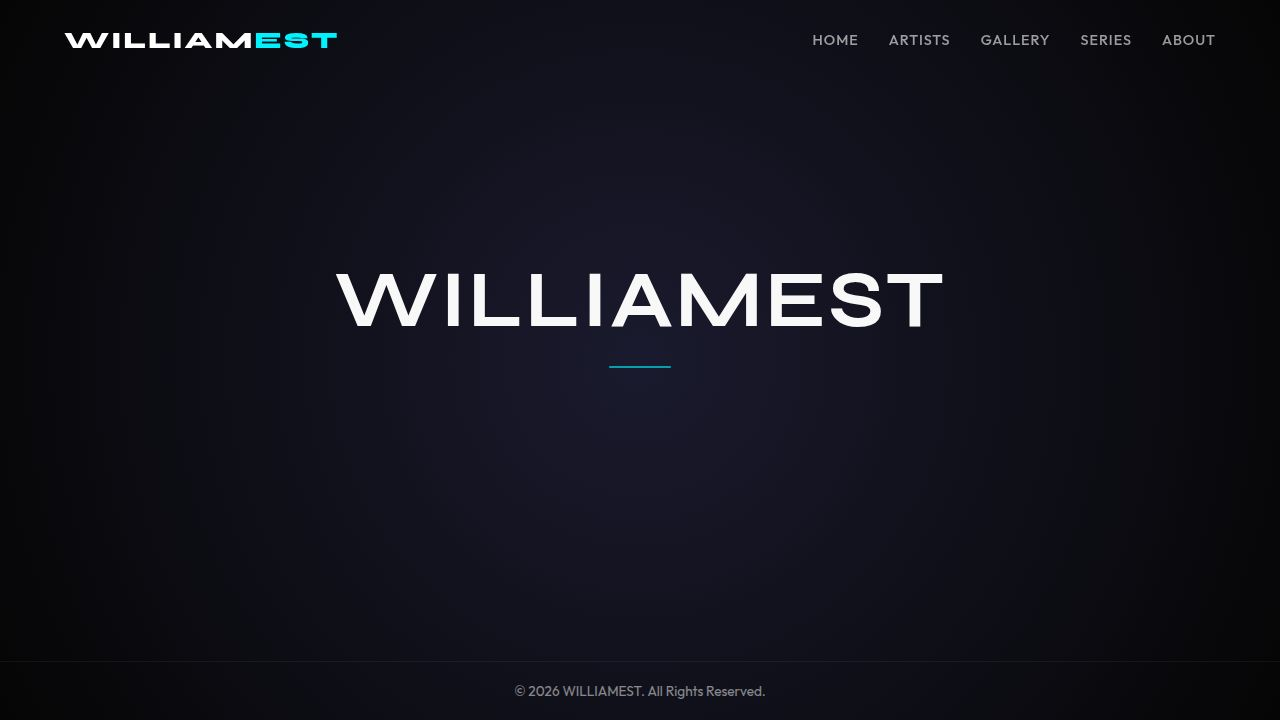
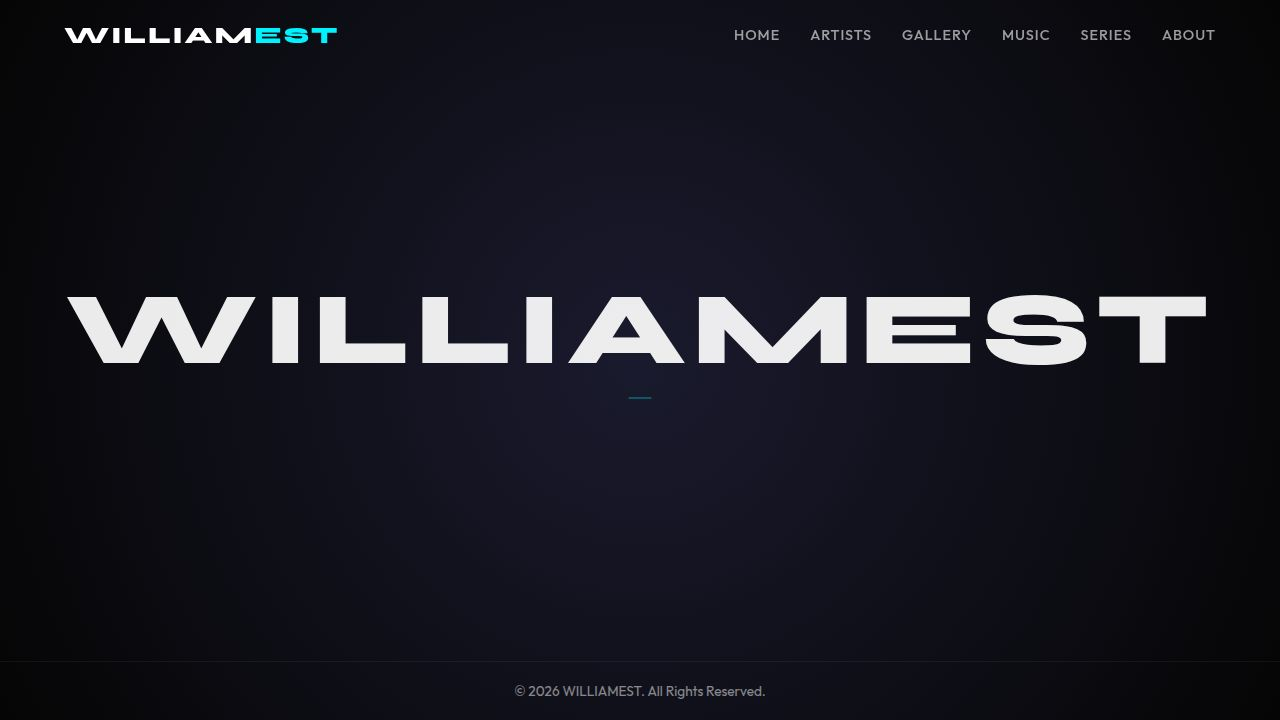
Add interactive photo viewer with navigation to series pages
Introduces a Lightbox component for viewing images with navigation controls, and updates series pages to utilize this component, replacing GSAP animations with direct image rendering and click interactions.

Replit-Commit-Author: Agent
Replit-Commit-Session-Id: fefd703e-1f18-45a1-940b-a8eb5c8bb643
Replit-Commit-Checkpoint-Type: full_checkpoint
Replit-Commit-Event-Id: 15db53f1-5986-473b-a2bf-03069cca0c66
Replit-Commit-Screenshot-Url: https://storage.googleapis.com/screenshot-production-us-central1/c8b2e662-a27f-438e-82d4-a696277a2b26/fefd703e-1f18-45a1-940b-a8eb5c8bb643/LmFUswW
Replit-Helium-Checkpoint-Created: true

diff --git a/artifacts/williamest/src/pages/Series3.tsx b/artifacts/williamest/src/pages/Series3.tsx
@@ -1,20 +1,26 @@
-import { useEffect } from "react";
+import { useEffect, useState, useCallback } from "react";
 import Navbar from "../components/Navbar";
 import Footer from "../components/Footer";
+import Lightbox from "../components/Lightbox";
+
+const archiveImages = [
+  "/images/youmaniac1.jpg",
+  "/images/youmaniac2.jpg",
+  "/images/youmaniac3.jpg",
+  "/images/youmaniac4.jpg",
+  "/images/youmaniac5.jpg",
+];
 
 export default function Series3() {
+  const [lbIndex, setLbIndex] = useState<number | null>(null);
+  const close = useCallback(() => setLbIndex(null), []);
+  const prev = useCallback(() => setLbIndex(i => i !== null ? (i - 1 + archiveImages.length) % archiveImages.length : null), []);
+  const next = useCallback(() => setLbIndex(i => i !== null ? (i + 1) % archiveImages.length : null), []);
+
   useEffect(() => {
     if (typeof window !== "undefined" && (window as any).gsap && (window as any).ScrollTrigger) {
       const gsap = (window as any).gsap;
       gsap.registerPlugin((window as any).ScrollTrigger);
-      gsap.from(".cast-card", {
-        scrollTrigger: { trigger: ".cast-section", start: "top 70%" },
-        y: 100, opacity: 0, stagger: 0.3, duration: 1.2, ease: "power4.out"
-      });
-      gsap.from(".maniac-grid-item", {
-        scrollTrigger: { trigger: ".maniac-grid", start: "top 75%" },
-        y: 60, opacity: 0, stagger: 0.12, duration: 1, ease: "power3.out"
-      });
     }
   }, []);
 
@@ -94,41 +100,32 @@ export default function Series3() {
             gridAutoRows: "clamp(130px, 16vw, 240px)",
             gap: "clamp(8px, 1.2vw, 16px)",
           }}>
-            <div className="maniac-grid-item" style={{ gridColumn: "span 7", gridRow: "span 2", overflow: "hidden", borderRadius: "clamp(10px, 1.5vw, 18px)", background: "#111" }}>
-              <img src="/images/youmaniac1.jpg" alt="You Maniac"
-                style={{ width: "100%", height: "100%", objectFit: "cover", transition: "transform 0.8s cubic-bezier(0.2,1,0.3,1)" }}
-                onMouseEnter={e => ((e.currentTarget as HTMLImageElement).style.transform = "scale(1.06)")}
-                onMouseLeave={e => ((e.currentTarget as HTMLImageElement).style.transform = "scale(1)")} />
-            </div>
-            <div className="maniac-grid-item" style={{ gridColumn: "span 5", gridRow: "span 2", overflow: "hidden", borderRadius: "clamp(10px, 1.5vw, 18px)", background: "#111" }}>
-              <img src="/images/youmaniac2.jpg" alt="You Maniac"
-                style={{ width: "100%", height: "100%", objectFit: "cover", transition: "transform 0.8s cubic-bezier(0.2,1,0.3,1)" }}
-                onMouseEnter={e => ((e.currentTarget as HTMLImageElement).style.transform = "scale(1.06)")}
-                onMouseLeave={e => ((e.currentTarget as HTMLImageElement).style.transform = "scale(1)")} />
-            </div>
-            <div className="maniac-grid-item" style={{ gridColumn: "span 4", overflow: "hidden", borderRadius: "clamp(10px, 1.5vw, 18px)", background: "#111" }}>
-              <img src="/images/youmaniac3.jpg" alt="You Maniac"
-                style={{ width: "100%", height: "100%", objectFit: "cover", transition: "transform 0.8s cubic-bezier(0.2,1,0.3,1)" }}
-                onMouseEnter={e => ((e.currentTarget as HTMLImageElement).style.transform = "scale(1.06)")}
-                onMouseLeave={e => ((e.currentTarget as HTMLImageElement).style.transform = "scale(1)")} />
-            </div>
-            <div className="maniac-grid-item" style={{ gridColumn: "span 4", overflow: "hidden", borderRadius: "clamp(10px, 1.5vw, 18px)", background: "#111" }}>
-              <img src="/images/youmaniac4.jpg" alt="You Maniac"
-                style={{ width: "100%", height: "100%", objectFit: "cover", transition: "transform 0.8s cubic-bezier(0.2,1,0.3,1)" }}
-                onMouseEnter={e => ((e.currentTarget as HTMLImageElement).style.transform = "scale(1.06)")}
-                onMouseLeave={e => ((e.currentTarget as HTMLImageElement).style.transform = "scale(1)")} />
-            </div>
-            <div className="maniac-grid-item" style={{ gridColumn: "span 4", overflow: "hidden", borderRadius: "clamp(10px, 1.5vw, 18px)", background: "#111" }}>
-              <img src="/images/youmaniac5.jpg" alt="You Maniac"
-                style={{ width: "100%", height: "100%", objectFit: "cover", transition: "transform 0.8s cubic-bezier(0.2,1,0.3,1)" }}
-                onMouseEnter={e => ((e.currentTarget as HTMLImageElement).style.transform = "scale(1.06)")}
-                onMouseLeave={e => ((e.currentTarget as HTMLImageElement).style.transform = "scale(1)")} />
-            </div>
+            {[
+              { col: "span 7", row: "span 2", idx: 0 },
+              { col: "span 5", row: "span 2", idx: 1 },
+              { col: "span 4", row: undefined, idx: 2 },
+              { col: "span 4", row: undefined, idx: 3 },
+              { col: "span 4", row: undefined, idx: 4 },
+            ].map(({ col, row, idx }) => (
+              <div
+                key={idx}
+                className="maniac-grid-item series-lb-item"
+                style={{ gridColumn: col, gridRow: row, overflow: "hidden", borderRadius: "clamp(10px, 1.5vw, 18px)", background: "#111" }}
+                onClick={() => setLbIndex(idx)}
+              >
+                <img src={archiveImages[idx]} alt="You Maniac"
+                  style={{ width: "100%", height: "100%", objectFit: "cover", transition: "transform 0.8s cubic-bezier(0.2,1,0.3,1)" }}
+                  onMouseEnter={e => ((e.currentTarget as HTMLImageElement).style.transform = "scale(1.06)")}
+                  onMouseLeave={e => ((e.currentTarget as HTMLImageElement).style.transform = "scale(1)")} />
+                <div className="gallery-hover-hint"><i className="fas fa-expand" style={{ fontSize: "1.2rem", color: "#fff" }}></i></div>
+              </div>
+            ))}
           </div>
         </section>
 
       </main>
       <Footer />
+      {lbIndex !== null && <Lightbox images={archiveImages} index={lbIndex} onClose={close} onPrev={prev} onNext={next} />}
     </div>
   );
 }

diff --git a/artifacts/williamest/src/components/Lightbox.tsx b/artifacts/williamest/src/components/Lightbox.tsx
@@ -1,0 +1,44 @@
+import { useEffect, useCallback } from "react";
+
+interface LightboxProps {
+  images: string[];
+  index: number;
+  onClose: () => void;
+  onPrev: () => void;
+  onNext: () => void;
+}
+
+export default function Lightbox({ images, index, onClose, onPrev, onNext }: LightboxProps) {
+  useEffect(() => {
+    const onKey = (e: KeyboardEvent) => {
+      if (e.key === "Escape") onClose();
+      if (e.key === "ArrowLeft") onPrev();
+      if (e.key === "ArrowRight") onNext();
+    };
+    window.addEventListener("keydown", onKey);
+    document.body.style.overflow = "hidden";
+    return () => {
+      window.removeEventListener("keydown", onKey);
+      document.body.style.overflow = "";
+    };
+  }, [onClose, onPrev, onNext]);
+
+  return (
+    <div className="lb-overlay" onClick={onClose}>
+      <div className="lb-inner" onClick={e => e.stopPropagation()}>
+        <button className="lb-back-btn" onClick={onClose} aria-label="Close">
+          <i className="fas fa-arrow-left"></i>
+          <span>Back</span>
+        </button>
+        <div className="lb-counter">{index + 1} / {images.length}</div>
+        <img key={index} src={images[index]} alt="Full size" className="lb-img" />
+        <button className="lb-arrow lb-arrow-prev" onClick={onPrev} aria-label="Previous">
+          <i className="fas fa-chevron-left"></i>
+        </button>
+        <button className="lb-arrow lb-arrow-next" onClick={onNext} aria-label="Next">
+          <i className="fas fa-chevron-right"></i>
+        </button>
+      </div>
+    </div>
+  );
+}

diff --git a/artifacts/williamest/src/pages/Series2.tsx b/artifacts/williamest/src/pages/Series2.tsx
@@ -1,17 +1,27 @@
-import { useEffect } from "react";
+import { useEffect, useState, useCallback } from "react";
 import Navbar from "../components/Navbar";
 import Footer from "../components/Footer";
+import Lightbox from "../components/Lightbox";
+
+const archiveImages = [
+  "/images/me_thee1.jpg",
+  "/images/me_thee2.jpg",
+  "/images/me_thee3.jpg",
+  "/images/me_thee4.jpg",
+  "/images/me_thee5.jpg",
+  "/images/me_thee6.jpg",
+];
 
 export default function Series2() {
+  const [lbIndex, setLbIndex] = useState<number | null>(null);
+  const close = useCallback(() => setLbIndex(null), []);
+  const prev = useCallback(() => setLbIndex(i => i !== null ? (i - 1 + archiveImages.length) % archiveImages.length : null), []);
+  const next = useCallback(() => setLbIndex(i => i !== null ? (i + 1) % archiveImages.length : null), []);
+
   useEffect(() => {
     if (typeof window !== "undefined" && (window as any).gsap && (window as any).ScrollTrigger) {
       const gsap = (window as any).gsap;
       gsap.registerPlugin((window as any).ScrollTrigger);
-
-      gsap.from(".bento-grid .grid-item", {
-        scrollTrigger: { trigger: ".photo-dump", start: "top 70%" },
-        y: 50, opacity: 0, stagger: 0.1, duration: 0.8, ease: "power2.out"
-      });
 
       const card = document.querySelector('.glass-card');
       const thumbs = document.querySelectorAll('.p-card');
@@ -65,16 +75,24 @@ export default function Series2() {
         <section className="photo-dump" style={{ padding: "clamp(40px, 8vw, 100px) clamp(16px, 5%, 10%)" }}>
           <h2 style={{ fontFamily: "'Syne'", fontSize: "clamp(1.4rem, 4vw, 2.5rem)", marginBottom: "clamp(20px, 4vw, 50px)" }}>VISUAL ARCHIVE</h2>
           <div className="bento-grid" style={{ display: "grid", gridTemplateColumns: "repeat(4, 1fr)", gridAutoRows: "clamp(120px, 18vw, 250px)", gap: "clamp(8px, 1.5vw, 20px)" }}>
-            <div className="grid-item" style={{ gridColumn: "span 2", gridRow: "span 2" }}><img src="/images/me_thee1.jpg" alt="" /></div>
-            <div className="grid-item" style={{ gridRow: "span 2" }}><img src="/images/me_thee2.jpg" alt="" /></div>
-            <div className="grid-item"><img src="/images/me_thee3.jpg" alt="" /></div>
-            <div className="grid-item"><img src="/images/me_thee4.jpg" alt="" /></div>
-            <div className="grid-item" style={{ gridColumn: "span 3" }}><img src="/images/me_thee5.jpg" alt="" /></div>
-            <div className="grid-item"><img src="/images/me_thee6.jpg" alt="" /></div>
+            {[
+              { style: { gridColumn: "span 2", gridRow: "span 2" }, idx: 0 },
+              { style: { gridRow: "span 2" }, idx: 1 },
+              { style: {}, idx: 2 },
+              { style: {}, idx: 3 },
+              { style: { gridColumn: "span 3" }, idx: 4 },
+              { style: {}, idx: 5 },
+            ].map(({ style, idx }) => (
+              <div key={idx} className="grid-item series-lb-item" style={style} onClick={() => setLbIndex(idx)}>
+                <img src={archiveImages[idx]} alt="" />
+                <div className="gallery-hover-hint"><i className="fas fa-expand" style={{ fontSize: "1.2rem", color: "#fff" }}></i></div>
+              </div>
+            ))}
           </div>
         </section>
       </main>
       <Footer />
+      {lbIndex !== null && <Lightbox images={archiveImages} index={lbIndex} onClose={close} onPrev={prev} onNext={next} />}
     </div>
   );
 }

diff --git a/artifacts/williamest/src/pages/Series1.tsx b/artifacts/williamest/src/pages/Series1.tsx
@@ -1,19 +1,28 @@
-import { useEffect, useRef } from "react";
+import { useEffect, useRef, useState, useCallback } from "react";
 import Navbar from "../components/Navbar";
 import Footer from "../components/Footer";
+import Lightbox from "../components/Lightbox";
+
+const archiveImages = [
+  "/images/thamepo1.jpg",
+  "/images/thamepo2.jpg",
+  "/images/thamepo3.jpg",
+  "/images/thamepo4.jpg",
+  "/images/thamepo5.jpg",
+  "/images/thamepo6.jpg",
+];
 
 export default function Series1() {
   const glassRef = useRef<HTMLDivElement>(null);
+  const [lbIndex, setLbIndex] = useState<number | null>(null);
+  const close = useCallback(() => setLbIndex(null), []);
+  const prev = useCallback(() => setLbIndex(i => i !== null ? (i - 1 + archiveImages.length) % archiveImages.length : null), []);
+  const next = useCallback(() => setLbIndex(i => i !== null ? (i + 1) % archiveImages.length : null), []);
 
   useEffect(() => {
     if (typeof window !== "undefined" && (window as any).gsap && (window as any).ScrollTrigger) {
       const gsap = (window as any).gsap;
       gsap.registerPlugin((window as any).ScrollTrigger);
-
-      gsap.from(".bento-grid .grid-item", {
-        scrollTrigger: { trigger: ".bento-grid", start: "top 75%" },
-        y: 60, opacity: 0, stagger: 0.15, duration: 1, ease: "power3.out"
-      });
 
       const cards = document.querySelectorAll('.p-card');
       const glass = glassRef.current;
@@ -82,16 +91,24 @@ export default function Series1() {
             <div style={{ height: "2px", flex: 1, minWidth: "30px", background: "linear-gradient(to right, #00f2fe, transparent)", margin: "0 20px 14px" }}></div>
           </div>
           <div className="bento-grid" style={{ display: "grid", gridTemplateColumns: "repeat(4, 1fr)", gridAutoRows: "clamp(120px, 18vw, 280px)", gap: "clamp(8px, 1.5vw, 25px)" }}>
-            <div className="grid-item" style={{ gridColumn: "span 2", gridRow: "span 2" }}><img src="/images/thamepo1.jpg" alt="" /></div>
-            <div className="grid-item" style={{ gridRow: "span 2" }}><img src="/images/thamepo2.jpg" alt="" /></div>
-            <div className="grid-item"><img src="/images/thamepo3.jpg" alt="" /></div>
-            <div className="grid-item"><img src="/images/thamepo4.jpg" alt="" /></div>
-            <div className="grid-item" style={{ gridColumn: "span 3" }}><img src="/images/thamepo5.jpg" alt="" /></div>
-            <div className="grid-item"><img src="/images/thamepo6.jpg" alt="" /></div>
+            {[
+              { style: { gridColumn: "span 2", gridRow: "span 2" }, idx: 0 },
+              { style: { gridRow: "span 2" }, idx: 1 },
+              { style: {}, idx: 2 },
+              { style: {}, idx: 3 },
+              { style: { gridColumn: "span 3" }, idx: 4 },
+              { style: {}, idx: 5 },
+            ].map(({ style, idx }) => (
+              <div key={idx} className="grid-item series-lb-item" style={style} onClick={() => setLbIndex(idx)}>
+                <img src={archiveImages[idx]} alt="" />
+                <div className="gallery-hover-hint"><i className="fas fa-expand" style={{ fontSize: "1.2rem", color: "#fff" }}></i></div>
+              </div>
+            ))}
           </div>
         </section>
       </main>
       <Footer />
+      {lbIndex !== null && <Lightbox images={archiveImages} index={lbIndex} onClose={close} onPrev={prev} onNext={next} />}
     </div>
   );
 }

diff --git a/artifacts/williamest/src/index.css b/artifacts/williamest/src/index.css
@@ -871,6 +871,11 @@ img {
   grid-column: span 2;
 }
 
+.series-lb-item {
+  position: relative;
+  cursor: pointer;
+}
+
 .gallery-hover-hint {
   position: absolute;
   inset: 0;
@@ -1008,6 +1013,7 @@ img {
   overflow: hidden;
   background: #111;
   border-radius: 16px;
+  position: relative;
 }
 
 .bento-grid .grid-item img {